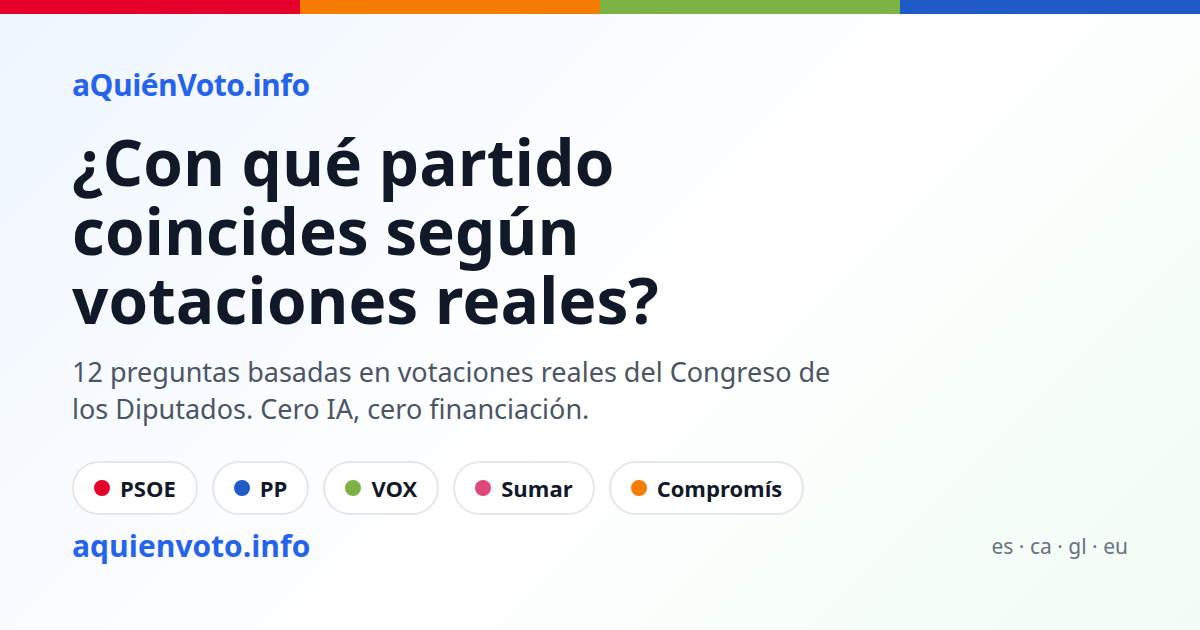
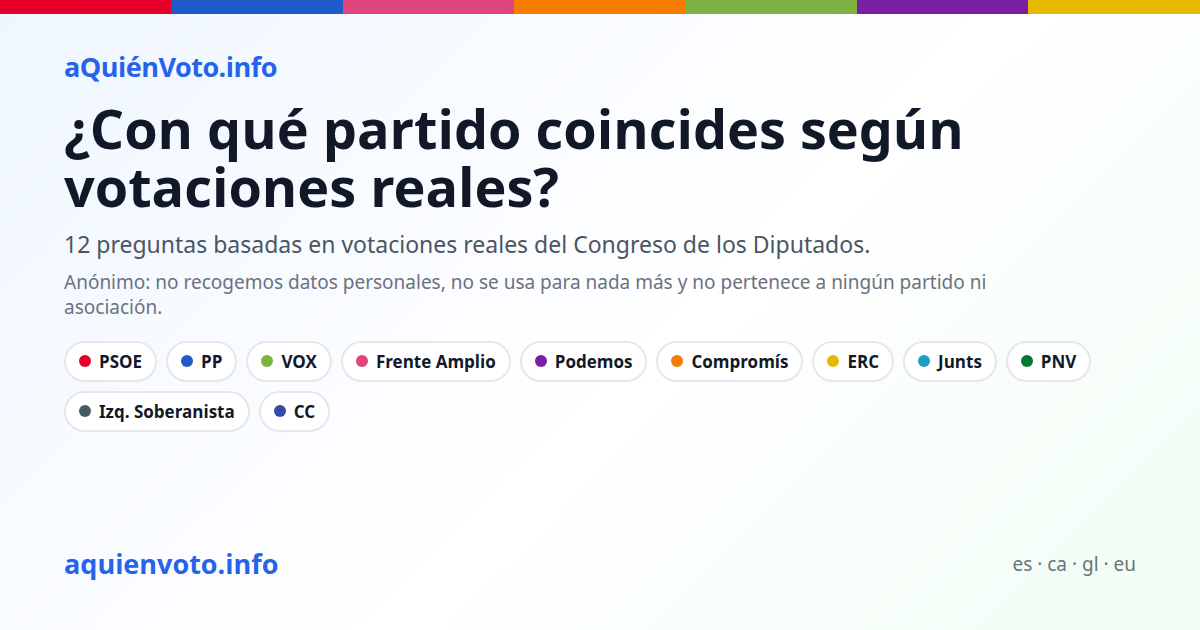
feat: update meta descriptions for improved clarity and privacy emphasis; add new og-source.html for Open Graph image generation

diff --git a/src/i18n/index.ts b/src/i18n/index.ts
@@ -14,6 +14,7 @@ const es = {
   "home.lead":
     "Conoce qué partidos se alinean mejor con tus ideas, basándose en votaciones reales del Congreso de los Diputados de España.",
   "home.meta": "11 partidos · 12 preguntas · votaciones reales del Congreso",
+  "home.trust": "Anónimo: sin datos personales, sin otros usos, sin relación con ningún partido o asociación.",
   "home.cta": "Comenzar el test",
   "home.f1t": "Datos reales",
   "home.f1d": "Basado en votaciones verificables del Congreso de los Diputados.",
@@ -65,11 +66,12 @@ const es = {
   "results.restart": "Hacer el test de nuevo",
   "results.shareTitle": "Comparte tus resultados",
   "results.shareLead": "Comparte tu afinidad y compara con la gente que conozcas",
-  "results.shareText": "He hecho el test de aquienenvoto.info: 12 votaciones reales del Congreso, sin IA. Mi partido más afín: {party} ({pct}%). ¿Y tú? {url}",
+  "results.shareText": "He hecho el test de aquienenvoto.info: 12 votaciones reales del Congreso. Mi partido más afín: {party} ({pct}%). ¿Y tú? {url}",
   "results.shareCopy": "Copiar enlace",
   "results.shareCopied": "¡Copiado!",
   "results.shareDownload": "Descargar imagen",
   "results.shareImageAlt": "Tarjeta de resultados de aquienenvoto.info",
+  "results.shareIgHint": "Imagen descargada: súbela a Instagram con el texto de abajo.",
   "results.warnTitle": "Importante",
   "results.warn":
     "Test orientativo basado en votaciones de la XV legislatura (datos hasta el 30/09/2026, más la votación del 02/10/2026). Los programas electorales del 29-N aún no se han publicado: consulta las fuentes oficiales y los programas completos antes de decidir.",
@@ -148,6 +150,7 @@ const ca: Dict = {
   "home.lead":
     "Coneix quins partits s'alineen millor amb les teves idees, a partir de votacions reals del Congrés dels Diputats d'Espanya.",
   "home.meta": "11 partits · 12 preguntes · votacions reals del Congrés",
+  "home.trust": "Anònim: sense dades personals, sense altres usos, sense relació amb cap partit ni associació.",
   "home.cta": "Començar el test",
   "home.f1t": "Dades reals",
   "home.f1d": "Basat en votacions verificables del Congrés dels Diputats.",
@@ -199,11 +202,12 @@ const ca: Dict = {
   "results.restart": "Tornar a fer el test",
   "results.shareTitle": "Comparteix els teus resultats",
   "results.shareLead": "Comparteix la teva afinitat i compara amb la gent que conegues",
-  "results.shareText": "He fet el test de aquienenvoto.info: 12 votacions reals del Congrés, sense IA. El meu partit més afí: {party} ({pct}%). I tu? {url}",
+  "results.shareText": "He fet el test de aquienenvoto.info: 12 votacions reals del Congrés. El meu partit més afí: {party} ({pct}%). I tu? {url}",
   "results.shareCopy": "Copiar enllaç",
   "results.shareCopied": "Copiat!",
   "results.shareDownload": "Descarregar imatge",
   "results.shareImageAlt": "Imatge de resultats d'aquienenvoto.info",
+  "results.shareIgHint": "Imatge desada: puja-la a Instagram amb el text de baix.",
   "results.warnTitle": "Important",
   "results.warn":
     "Test orientatiu basat en votacions de la XV legislatura (dades fins al 30/09/2026, més la votació del 02/10/2026). Els programes electorals del 29-N encara no s'han publicat: consulta les fonts oficials i els programes complets abans de decidir.",
@@ -280,6 +284,7 @@ const gl: Dict = {
   "home.lead":
     "Coñece que partidos se aliñan mellor coas túas ideas, a partir de votacións reais do Congreso dos Deputados de España.",
   "home.meta": "11 partidos · 12 preguntas · votacións reais do Congreso",
+  "home.trust": "Anónimo: sen datos persoais, sen outros usos, sen relación con ningún partido nin asociación.",
   "home.cta": "Comezar o test",
   "home.f1t": "Datos reais",
   "home.f1d": "Basado en votacións verificables do Congreso dos Deputados.",
@@ -331,11 +336,12 @@ const gl: Dict = {
   "results.restart": "Facer o test de novo",
   "results.shareTitle": "Comparte os teus resultados",
   "results.shareLead": "Comparte a túa afinidade e compara coa xente que coñezas",
-  "results.shareText": "Fixen o test de aquienenvoto.info: 12 votacións reais do Congreso, sen IA. O meu partido máis afín: {party} ({pct}%). E ti? {url}",
+  "results.shareText": "Fixen o test de aquienenvoto.info: 12 votacións reais do Congreso. O meu partido máis afín: {party} ({pct}%). E ti? {url}",
   "results.shareCopy": "Copiar ligazón",
   "results.shareCopied": "Copiado!",
   "results.shareDownload": "Descargar imaxe",
   "results.shareImageAlt": "Imaxe de resultados de aquienenvoto.info",
+  "results.shareIgHint": "Imaxe descargada: súbea a Instagram co texto de abaixo.",
   "results.warnTitle": "Importante",
   "results.warn":
     "Test orientativo baseado en votacións da XV lexislatura (datos ata o 30/09/2026, máis a votación do 02/10/2026). Os programas electorais do 29-N aínda non se publicaron: consulta as fontes oficiais e os programas completos antes de decidir.",
@@ -412,6 +418,7 @@ const eu: Dict = {
   "home.lead":
     "Jakitu zein alderdi datorkizun hobekien zure ideiekin, Espainiako Diputatuen Kongresuko benetako bozketetatik abiatuta.",
   "home.meta": "11 alderdi · 12 galdera · Kongresuko benetako bozketa",
+  "home.trust": "Anonimoa: datu pertsonalik gabe, beste erabilerik gabe, alderdi edo elkarte batekin lotura gabe.",
   "home.cta": "Hasi testa",
   "home.f1t": "Benetako datuak",
   "home.f1d": "Diputatuen Kongresuko bozka egiaztagarrietan oinarrituta.",
@@ -464,11 +471,12 @@ const eu: Dict = {
   "results.restart": "Berriro egin testa",
   "results.shareTitle": "Partekatu zure emaitzak",
   "results.shareLead": "Partekatu zure afinitatea eta konparatu ezagutzen duzun jendearekin",
-  "results.shareText": "aquienenvoto.info-ko testa egin dut: Kongresuko 12 bozketa erreal, IA gabe. Nire alderdirik gertukoena: {party} ({pct}%). Zu ere? {url}",
+  "results.shareText": "aquienenvoto.info-ko testa egin dut: Kongresuko 12 bozketa erreal. Nire alderdirik gertukoena: {party} ({pct}%). Zu ere? {url}",
   "results.shareCopy": "Estekaren kopia egin",
   "results.shareCopied": "Kopia egin da!",
   "results.shareDownload": "Irudia deskargatu",
   "results.shareImageAlt": "aquienenvoto.info-ko emaitzen irudia",
+  "results.shareIgHint": "Irudia deskargatu da: igo ezazu Instagram-era beheko testuarekin.",
   "results.warnTitle": "Garrantzitsua",
   "results.warn":
     "XV legegintzaldiko bozketetan oinarritako test orientatiboa (datuak 2026/09/30ra arte, gehi 2026/10/02ko bozketa). 29-Neko hauteskunde programa ofizialak oraindik argitaratu gabe daude: kontsultatu iturri ofizialak eta programa osoak erabaki aurretik.",

diff --git a/scripts/og-source.html b/scripts/og-source.html
@@ -1,0 +1,63 @@
+<!doctype html>
+<html lang="es">
+<head>
+<meta charset="UTF-8" />
+<!--
+  Source de public/og.png (1200×630).
+  Regenerar: google-chrome --headless=new --disable-gpu --screenshot=... o via CDP.
+  Partits i colors sincronitzats amb src/data/parties.ts (11 entrades, ordre id).
+-->
+<style>
+  * { margin: 0; padding: 0; box-sizing: border-box; }
+  body {
+    width: 1200px; height: 630px; overflow: hidden;
+    font-family: system-ui, -apple-system, "Segoe UI", Roboto, "Helvetica Neue", Arial, sans-serif;
+    background: linear-gradient(135deg, #eff6ff 0%, #ffffff 55%, #f0fdf4 100%);
+  }
+  .bar { position: absolute; top: 0; left: 0; right: 0; height: 14px;
+    background: linear-gradient(90deg,
+      #E4002B 0 14.28%, #1E5BC6 0 28.56%, #E0457B 0 42.84%,
+      #F57C00 0 57.12%, #7CB342 0 71.4%, #7B1FA2 0 85.68%, #E6B800 85.68% 100%); }
+  .wrap { padding: 48px 64px; height: 100%; display: flex; flex-direction: column; justify-content: space-between; }
+  .brand { font-size: 27px; font-weight: 700; color: #2563eb; letter-spacing: -0.5px; }
+  h1 { font-size: 54px; font-weight: 800; color: #111827; line-height: 1.08; max-width: 900px; margin-top: 14px; }
+  .sub { font-size: 23px; color: #4b5563; margin-top: 12px; }
+  .trust { font-size: 19px; color: #6b7280; margin-top: 10px; max-width: 980px; line-height: 1.35; }
+  .chips { display: flex; flex-wrap: wrap; gap: 9px; margin-top: 20px; max-width: 1072px; }
+  .chip { display: flex; align-items: center; gap: 8px; background: #fff; border: 2px solid #e5e7eb;
+    border-radius: 999px; padding: 7px 13px; font-size: 17px; font-weight: 700; color: #111827; }
+  .dot { width: 12px; height: 12px; border-radius: 999px; }
+  .foot { display: flex; align-items: center; justify-content: space-between; }
+  .foot .url { font-size: 27px; font-weight: 800; color: #2563eb; }
+  .foot .note { font-size: 19px; color: #6b7280; }
+</style>
+</head>
+<body>
+  <div class="bar"></div>
+  <div class="wrap">
+    <div>
+      <div class="brand">aQuiénVoto.info</div>
+      <h1>¿Con qué partido coincides según votaciones reales?</h1>
+      <div class="sub">12 preguntas basadas en votaciones reales del Congreso de los Diputados.</div>
+      <div class="trust">Anónimo: no recogemos datos personales, no se usa para nada más y no pertenece a ningún partido ni asociación.</div>
+      <div class="chips">
+        <div class="chip"><span class="dot" style="background:#E4002B"></span>PSOE</div>
+        <div class="chip"><span class="dot" style="background:#1E5BC6"></span>PP</div>
+        <div class="chip"><span class="dot" style="background:#7CB342"></span>VOX</div>
+        <div class="chip"><span class="dot" style="background:#E0457B"></span>Frente Amplio</div>
+        <div class="chip"><span class="dot" style="background:#7B1FA2"></span>Podemos</div>
+        <div class="chip"><span class="dot" style="background:#F57C00"></span>Compromís</div>
+        <div class="chip"><span class="dot" style="background:#E6B800"></span>ERC</div>
+        <div class="chip"><span class="dot" style="background:#1BA0C4"></span>Junts</div>
+        <div class="chip"><span class="dot" style="background:#007A33"></span>PNV</div>
+        <div class="chip"><span class="dot" style="background:#455A64"></span>Izq. Soberanista</div>
+        <div class="chip"><span class="dot" style="background:#3949AB"></span>CC</div>
+      </div>
+    </div>
+    <div class="foot">
+      <div class="url">aquienvoto.info</div>
+      <div class="note">es · ca · gl · eu</div>
+    </div>
+  </div>
+</body>
+</html>

diff --git a/src/components/ShareCard.tsx b/src/components/ShareCard.tsx
@@ -1,5 +1,14 @@
 import React, { useEffect, useRef, useState } from "react";
-import { MessageCircle, Send, AtSign, Copy, Check, Download } from "lucide-react";
+import {
+  MessageCircle,
+  Send,
+  AtSign,
+  Copy,
+  Check,
+  Download,
+  Facebook,
+  Instagram,
+} from "lucide-react";
 import { useI18n } from "../i18n";
 import { partyById } from "../data/parties";
 import { useAnalytics } from "../hooks/useAnalytics";
@@ -102,7 +111,7 @@ function drawCard(
   ctx.fillText("aquienenvoto.info", 72, H - 90);
   ctx.fillStyle = "#6b7280";
   ctx.font = `400 28px ${FONT}`;
-  ctx.fillText("12 votaciones reales del Congreso · Cero IA", 72, H - 44);
+  ctx.fillText("12 votaciones reales del Congreso · Anónimo", 72, H - 44);
 }
 
 const ShareCard: React.FC<ShareCardProps> = ({ matches }) => {
@@ -110,6 +119,7 @@ const ShareCard: React.FC<ShareCardProps> = ({ matches }) => {
   const { track } = useAnalytics();
   const canvasRef = useRef<HTMLCanvasElement>(null);
   const [copied, setCopied] = useState(false);
+  const [igHint, setIgHint] = useState(false);
 
   const top = matches.slice(0, 3);
   const topMatch = matches[0];
@@ -152,6 +162,36 @@ const ShareCard: React.FC<ShareCardProps> = ({ matches }) => {
     a.href = canvas.toDataURL("image/png");
     a.download = "aquienvoto-resultats.png";
     a.click();
+  };
+
+  // Instagram no té URL de compartició web: provem el share natiu amb la
+  // imatge (mòbil) i, si no, descarreguem la targeta i mostrem un avís.
+  const shareInstagram = async () => {
+    onClick("instagram");
+    const canvas = canvasRef.current;
+    if (!canvas) return;
+    try {
+      const blob = await new Promise<Blob | null>((res) =>
+        canvas.toBlob(res, "image/png")
+      );
+      if (blob && typeof navigator !== "undefined" && navigator.canShare) {
+        const file = new File([blob], "aquienvoto-resultats.png", {
+          type: "image/png",
+        });
+        if (navigator.canShare({ files: [file] })) {
+          await navigator.share({ files: [file], text: shareText });
+          return;
+        }
+      }
+    } catch {
+      /* cancel·lat o sense suport: fallback a descàrrega */
+    }
+    const a = document.createElement("a");
+    a.href = canvas.toDataURL("image/png");
+    a.download = "aquienvoto-resultats.png";
+    a.click();
+    setIgHint(true);
+    window.setTimeout(() => setIgHint(false), 6000);
   };
 
   if (top.length === 0) return null;

diff --git a/index.html b/index.html
@@ -6,7 +6,7 @@
   <link rel="icon" type="image/svg+xml" href="/favicon.svg" />
   <meta name="viewport" content="width=device-width, initial-scale=1.0" />
   <meta name="description"
-    content="Test electoral basado en 12 votaciones reales del Congreso de los Diputados. Descubre qué partido se alinea con tus ideas. Sin IA, sin financiación, en 4 idiomas." />
+    content="Test electoral basado en 12 votaciones reales del Congreso de los Diputados. Descubre qué partido se alinea con tus ideas. Anónimo: no recogemos datos personales ni pertenece a ningún partido. En 4 idiomas." />
   <title>aQuiénVoto.info - Tu Orientador Electoral</title>
   <meta name="theme-color" content="#2563eb" />
   <link rel="canonical" href="https://aquienvoto.info/" />
@@ -16,7 +16,7 @@
   <meta property="og:site_name" content="aQuiénVoto.info" />
   <meta property="og:title" content="aQuiénVoto.info — ¿Con qué partido coincides según votaciones reales?" />
   <meta property="og:description"
-    content="12 preguntas basadas en votaciones reales del Congreso. Cero IA, cero financiación. En castellano, catalán, gallego y euskera." />
+    content="12 preguntas basadas en votaciones reales del Congreso. Anónimo: no recogemos datos personales, no se usa para nada más y no pertenece a ningún partido. En castellano, catalán, gallego y euskera." />
   <meta property="og:image" content="https://aquienvoto.info/og.png" />
   <meta property="og:image:width" content="1200" />
   <meta property="og:image:height" content="630" />
@@ -29,7 +29,7 @@
   <meta name="twitter:card" content="summary_large_image" />
   <meta name="twitter:title" content="aQuiénVoto.info — ¿Con qué partido coincides según votaciones reales?" />
   <meta name="twitter:description"
-    content="12 preguntas basadas en votaciones reales del Congreso. Cero IA, cero financiación." />
+    content="12 preguntas basadas en votaciones reales del Congreso. Anónimo: no recogemos datos personales, no se usa para nada más y no pertenece a ningún partido." />
   <meta name="twitter:image" content="https://aquienvoto.info/og.png" />
 
   <!-- Idiomes -->

diff --git a/src/components/Home.tsx b/src/components/Home.tsx
@@ -1,5 +1,5 @@
 import React from "react";
-import { ArrowRight, CheckCircle, ExternalLink, FileText } from "lucide-react";
+import { ArrowRight, CheckCircle, ExternalLink, FileText, ShieldCheck } from "lucide-react";
 import { useAnalytics } from "../hooks/useAnalytics";
 import { useI18n } from "../i18n";
 
@@ -44,6 +44,10 @@ const Home: React.FC<HomeProps> = ({ onStartTest }) => {
             {t("home.cta")}
             <ArrowRight className="ml-2 h-5 w-5" />
           </button>
+          <p className="mt-6 flex items-center justify-center gap-2 text-sm text-gray-500 max-w-2xl mx-auto">
+            <ShieldCheck className="h-4 w-4 shrink-0 text-green-600" aria-hidden="true" />
+            {t("home.trust")}
+          </p>
         </div>
 
         {/* Features */}

diff --git a/scripts/_seo_entry.ts b/scripts/_seo_entry.ts
@@ -148,7 +148,7 @@ function page(opts: {
     <a class="brand" href="${homeHref(lang)}">aQuiénVoto.info</a>
 ${body}
     <a class="cta" href="${homeHref(lang)}">${CTA_LABELS[lang]}</a>
-    <p class="foot"><a href="${homeHref(lang)}">aQuiénVoto.info</a> — 12 votaciones reales del Congreso. Cero IA.</p>
+    <p class="foot"><a href="${homeHref(lang)}">aQuiénVoto.info</a> — 12 votaciones reales del Congreso. Anónimo: no recogemos datos personales.</p>
     <p class="foot">${esc(self)}</p>
   </div>
 </body>
